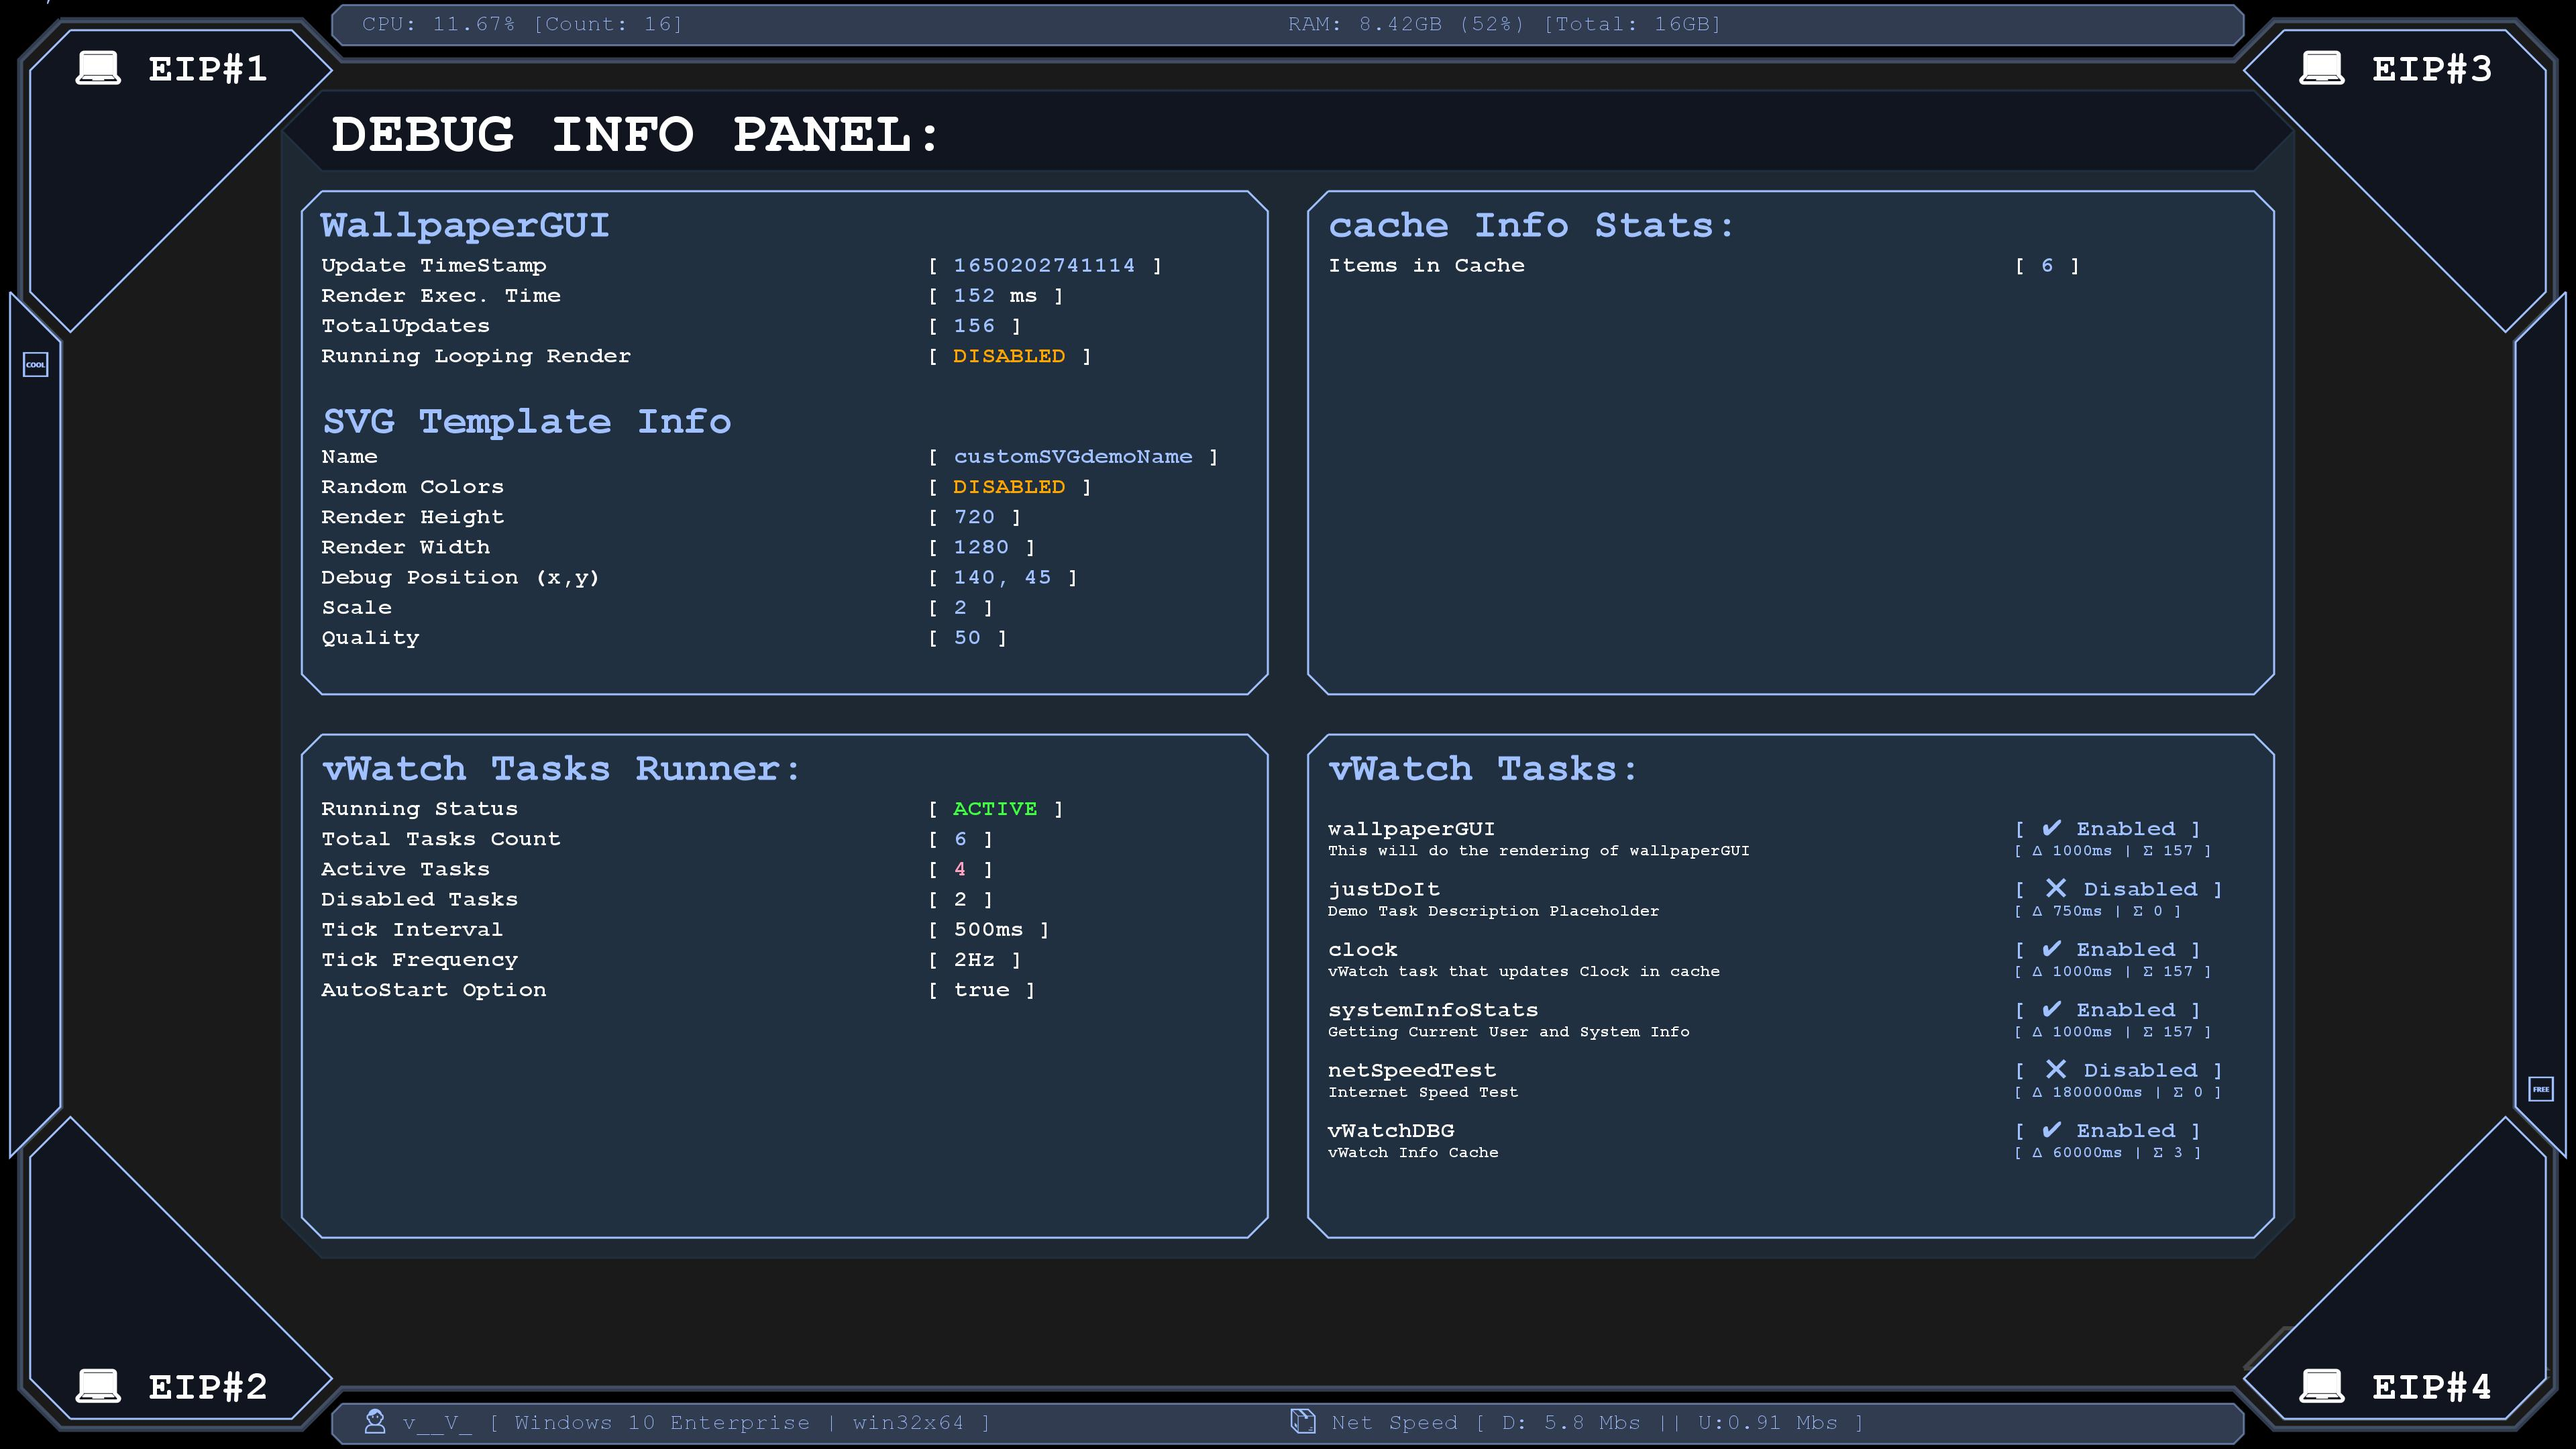
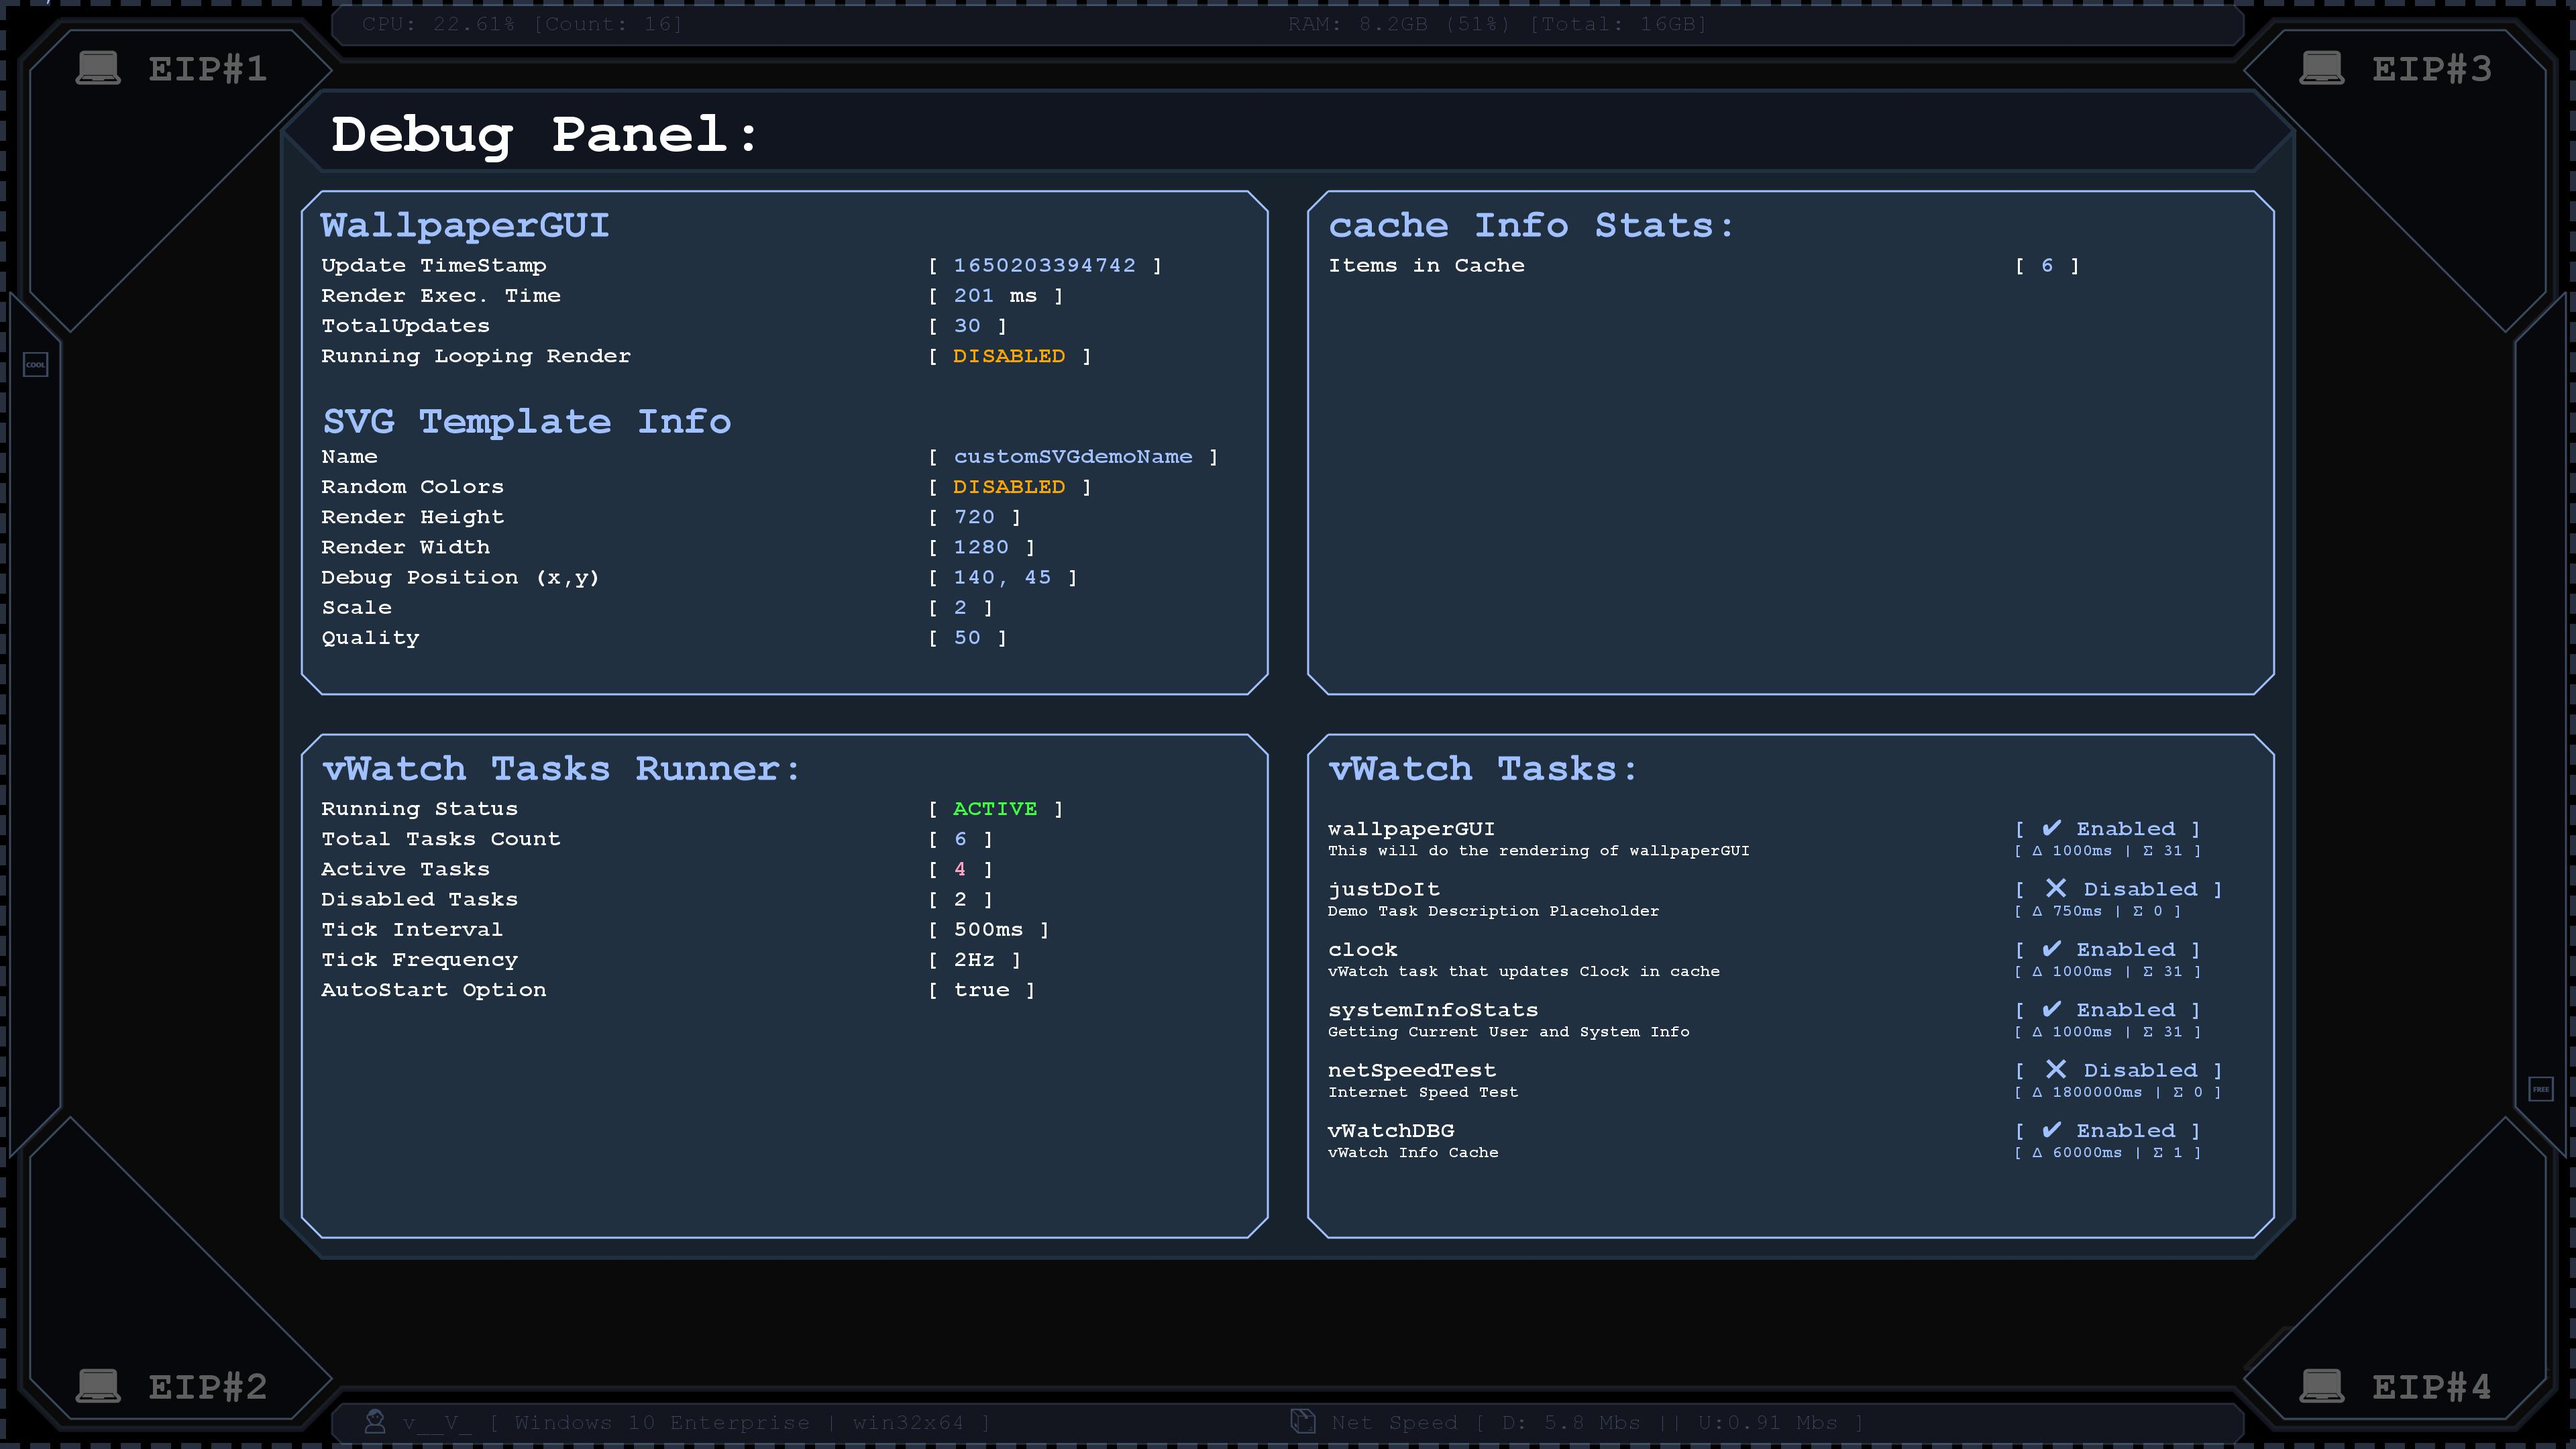
yea added overlay so its clear that debug is not on same layer as extended info panel

diff --git a/src/wallpaperGUI/template.js b/src/wallpaperGUI/template.js
@@ -276,9 +276,10 @@ function svgTemplate(data = {}) {
     if (config.debug) {
 
       return `<g font-family="monospace" fill="#000000" stroke="1"  >
-                <path d="M ${this.helpDim.X} ${this.debugY} l 960 0 20 20 0 540 -20 20 -960 0 -20 -20 0 -540 20 -20" stroke="#203040" stroke-width="1" fill="#203040A0" ></path>
-                <path d="M ${this.helpDim.X} ${this.debugY} l 960 0 20 20  -20 20 -960 0 -20 -20 20 -20" stroke="#203040" stroke-width="1" fill="#101520" ></path>
-                ${await draw.text(this.helpDim.X + 5, this.helpDim.Y, "DEBUG INFO PANEL:", this.white, this.mainFontSize)}
+                <path d="M 0 0 l 1280 0   0 720   -1280 0   0 -720" stroke="${this.main}40" stroke-width="6" fill="#000000A0" stroke-dasharray="10 5"></path>
+                <path d="M ${this.helpDim.X} ${this.debugY} l 960 0 20 20 0 540 -20 20 -960 0 -20 -20 0 -540 20 -20" stroke="#203040" stroke-width="2" fill="#203040A0" ></path>
+                <path d="M ${this.helpDim.X} ${this.debugY} l 960 0 20 20  -20 20 -960 0 -20 -20 20 -20" stroke="#203040" stroke-width="2" fill="#101520" ></path>
+                ${await draw.text(this.helpDim.X + 5, this.helpDim.Y, "Debug Panel:", this.white, this.mainFontSize)}
 
                 ${await this.wallGuiDBG()}
                 ${await this.cacheDBG()}
